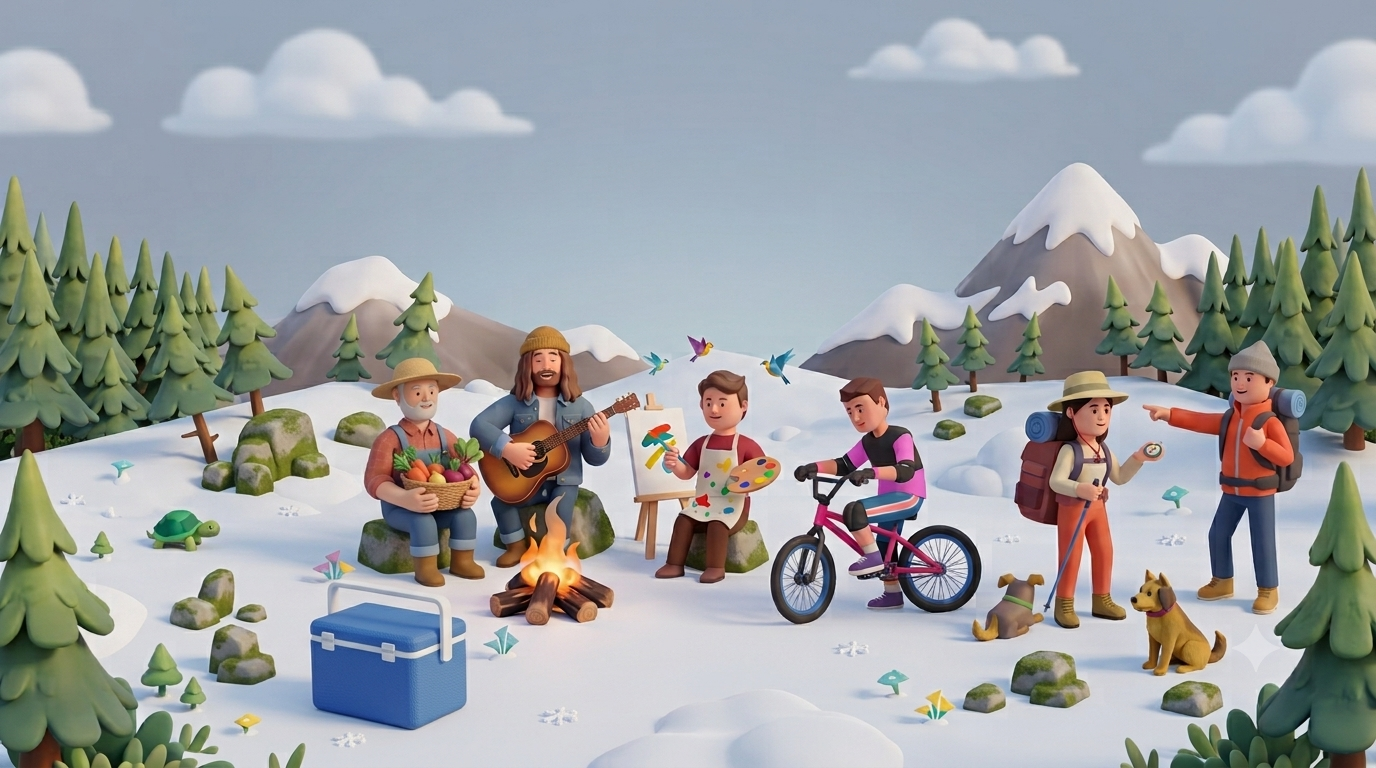
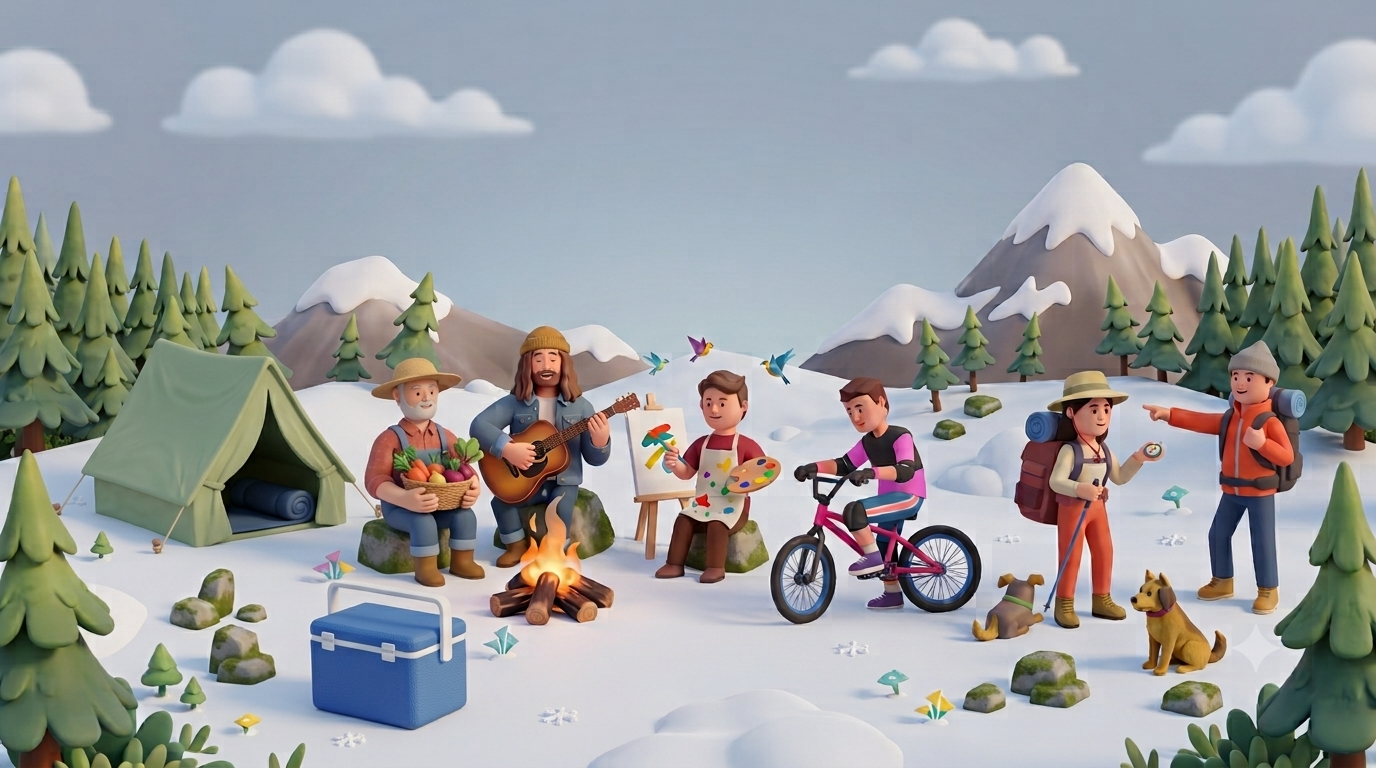
fix match page

Changed region(s): [[0.0312, 0.4375, 0.2812, 0.7188]]

diff --git a/app/create/match/page.tsx b/app/create/match/page.tsx
@@ -90,10 +90,10 @@ const MatchPage = () => {
   };
 
   return (
-    <div className="min-h-screen bg-[#E5E7EB] font-sans flex flex-col items-center">
+    <div className="h-dvh bg-[#E5E7EB] font-sans flex flex-col items-center overflow-hidden">
       <Navbar />
-      <div className="w-full max-w-6xl px-4 mt-4 pb-12">
-        <div className="bg-[#F8A4A4] rounded-t-[40px] p-6 md:p-8 flex flex-wrap justify-between items-center shadow-sm gap-4">
+      <div className="flex-1 w-full max-w-6xl px-4 mt-4 flex flex-col min-h-0">
+        <div className="bg-[#F8A4A4] rounded-t-[40px] p-6 md:p-8 flex flex-wrap justify-between items-center shadow-sm gap-4 flex-shrink-0">
           <div className="flex items-center gap-3">
             <button
               onClick={() => router.push('/')}
@@ -118,12 +118,12 @@ const MatchPage = () => {
           </button>
         </div>
 
-        <div className="bg-[#D1D5DB]/40 p-6 md:p-10 grid grid-cols-1 lg:grid-cols-2 gap-8 rounded-b-[40px] border-b-8 border-gray-300 shadow-inner">
+        <div className="flex-1 overflow-y-auto bg-[#D1D5DB]/40 p-6 md:p-10 grid grid-cols-1 lg:grid-cols-2 gap-8 border-b-8 border-gray-300 shadow-inner">
           <div className="flex flex-col gap-3">
-            {members.length === 0 ? (
+            {members.filter((m) => m.name !== room?.hostName).length === 0 ? (
               <div className="bg-white rounded-2xl p-6 text-center text-gray-400 font-medium">รอนักเรียนเข้าร่วม...</div>
             ) : (
-              members.map((member, idx) => {
+              members.filter((m) => m.name !== room?.hostName).map((member, idx) => {
                 const isSelf = member.name === user?.name;
                 return (
                 <div key={idx} className="bg-white rounded-2xl p-3 sm:p-4 flex items-center justify-between gap-2 shadow-sm cursor-pointer hover:scale-[1.01] transition-all border-2 border-transparent hover:border-blue-200">

diff --git a/app/create/manual/page.tsx b/app/create/manual/page.tsx
@@ -158,9 +158,9 @@ const ManualPage = () => {
   };
 
   return (
-    <div className="min-h-screen bg-[#E5E7EB] font-sans flex flex-col items-center">
+    <div className="h-dvh bg-[#E5E7EB] font-sans flex flex-col items-center overflow-hidden">
       <Navbar />
-      <div className="w-full max-w-6xl px-4 mt-4 pb-12">
+      <div className="flex-1 w-full max-w-6xl px-4 mt-4 flex flex-col min-h-0">
         <div className="bg-[#F8A4A4] rounded-t-[40px] p-6 md:p-8 flex flex-wrap justify-between items-center shadow-sm gap-4">
           <div className="flex items-center gap-3">
             <button
@@ -195,7 +195,7 @@ const ManualPage = () => {
           </div>
         </div>
 
-        <div className="bg-[#D1D5DB]/40 p-6 md:p-10 grid grid-cols-1 lg:grid-cols-2 gap-8 rounded-b-[40px] border-b-8 border-gray-300 shadow-inner">
+        <div className="flex-1 overflow-y-auto bg-[#D1D5DB]/40 p-6 md:p-10 grid grid-cols-1 lg:grid-cols-2 gap-8 border-b-8 border-gray-300 shadow-inner">
           <div className="flex flex-col gap-3">
             {members.length === 0 ? (
               <div className="bg-white rounded-2xl p-6 text-center text-gray-400 font-medium">รอนักเรียนเข้าร่วม...</div>
